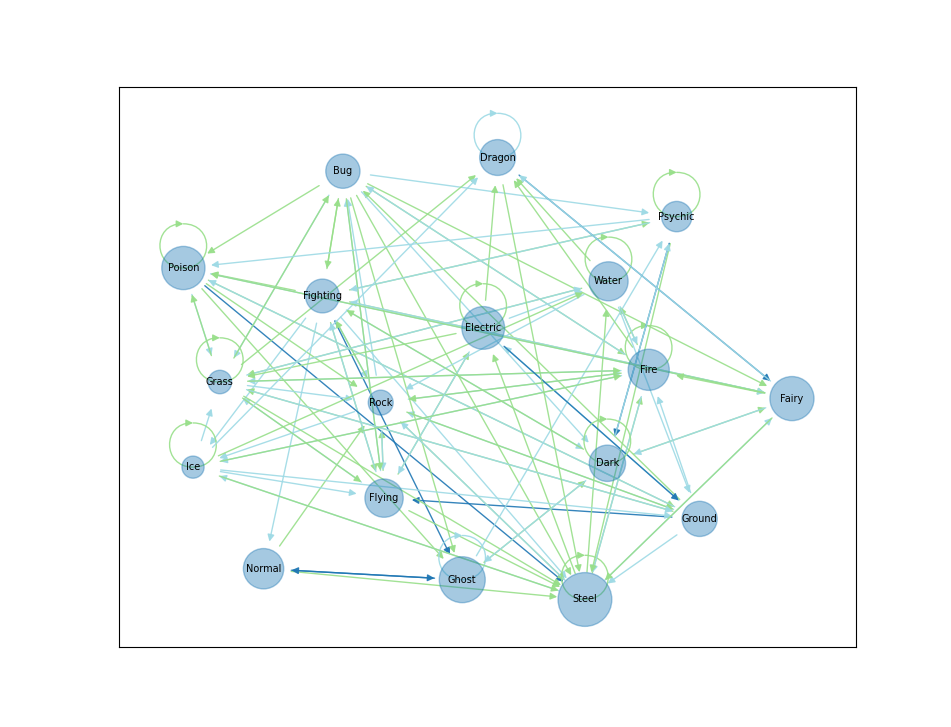
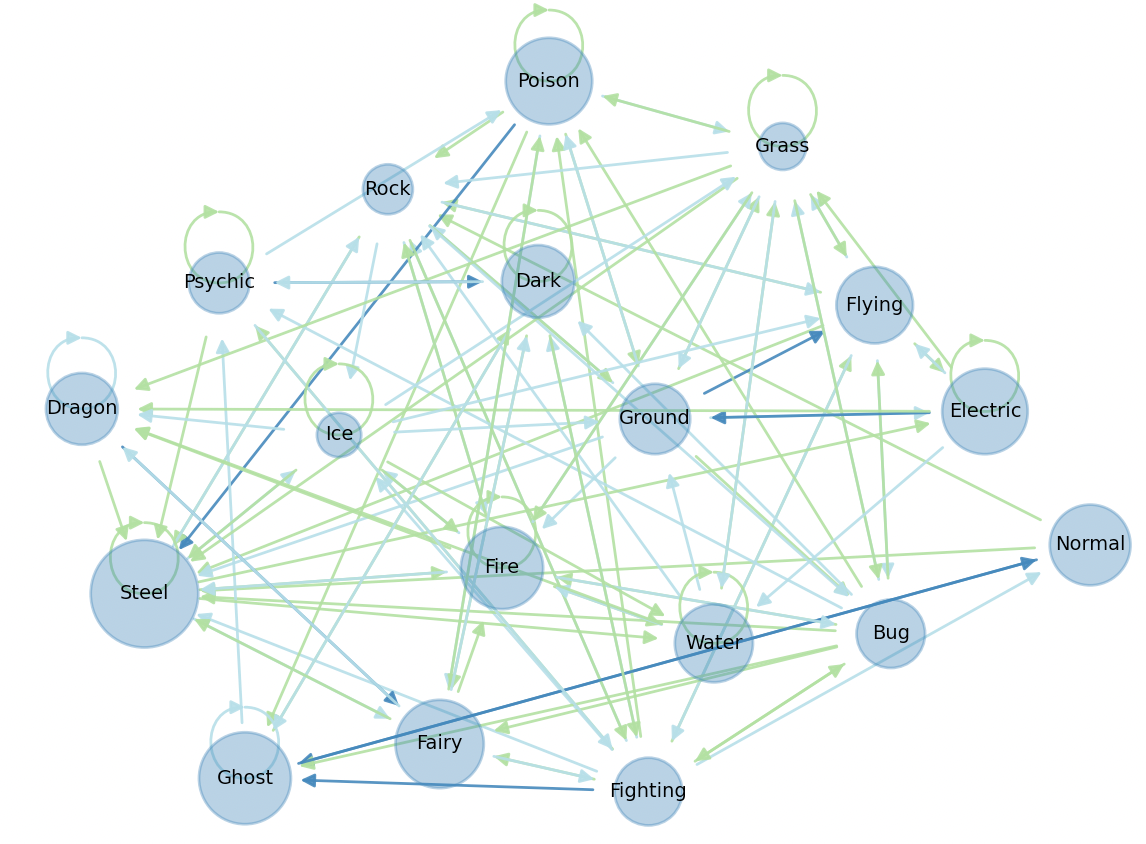
tight layout

Changed region(s): [[0.0305, 0.0, 1.0, 0.9986]]

diff --git a/pagerank.py b/pagerank.py
@@ -66,6 +66,7 @@ def show_graph(graph):
     # 绘制节点的label
     nx.draw_networkx_labels(graph, positions, font_size=7)
     # 输出希拉里邮件中的所有人物关系图
+    plt.tight_layout()
     plt.show()
 
 
